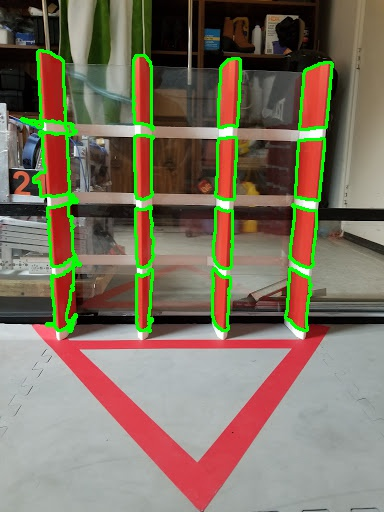
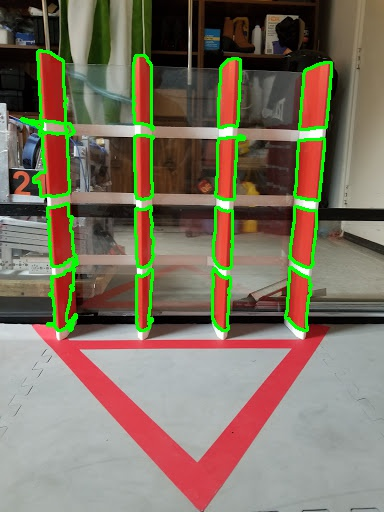
added contour grouping

diff --git a/VisionTester/src/Shared/CryptoboxDetector.java b/VisionTester/src/Shared/CryptoboxDetector.java
@@ -8,6 +8,7 @@ import org.opencv.imgproc.Imgproc;
 
 import java.util.ArrayList;
 import java.util.Collection;
+import java.util.Comparator;
 import java.util.List;
 
 /**
@@ -19,10 +20,11 @@ public class CryptoboxDetector {
     static Cryptobox cryptobox;
 
     final static int minLineLength = 50;
-    final static double minArea = 500;
 
-    // kek
-    final static double maxArea = 9001;
+    final static double minArea = 500;
+    final static double maxArea = 4001;
+
+    final static double maxGap = 35;
 
     static Scalar lowerRed = new Scalar(150, 0, 0);
     static Scalar upperRed = new Scalar(255, 120, 120);
@@ -129,9 +131,46 @@ public class CryptoboxDetector {
 
         for (Contour c : contours) {
             Drawing.drawContour(debugImage, c, Color.create(new Scalar(0,255,0), ColorSpace.RGB));
-
         }
 
+        // Sort contours by how far right they are
+        contours.sort(((o1, o2) -> {return (int)(o1.center().x - o2.center().x);}));
+
+        List<List<Contour>> contourGroups = new ArrayList<>();
+
+        for (int i = 0; i < contours.size(); i++) {
+            if (i == contours.size() - 1) {
+                break;
+            }
+
+            if (Math.abs(contours.get(i).center().x - contours.get(i + 1).center().x) < maxGap) {
+                // Part of the same group
+                if (contourGroups.size() == 0) {
+                    // First group
+                    contourGroups.add(new ArrayList<>());
+                    contourGroups.get(0).add(contours.get(i));
+                    contourGroups.get(0).add(contours.get(i + 1));
+                }
+
+                else {
+                    contourGroups.get(contourGroups.size() - 1).add(contours.get(i + 1));
+                }
+            }
+            else {
+                // New group
+                contourGroups.add(new ArrayList<>());
+                contourGroups.get(contourGroups.size() - 1).add(contours.get(i + 1));
+            }
+        }
+
+        int index = 0;
+        for (List<Contour> contourGroup : contourGroups) {
+            System.out.println("Contour group: " + index);
+
+            for (Contour c : contourGroup) {
+                System.out.println(c.center().x);
+            }
+        }
         // At this point we should only have contours representing the walls of the cryptobox
 
 
